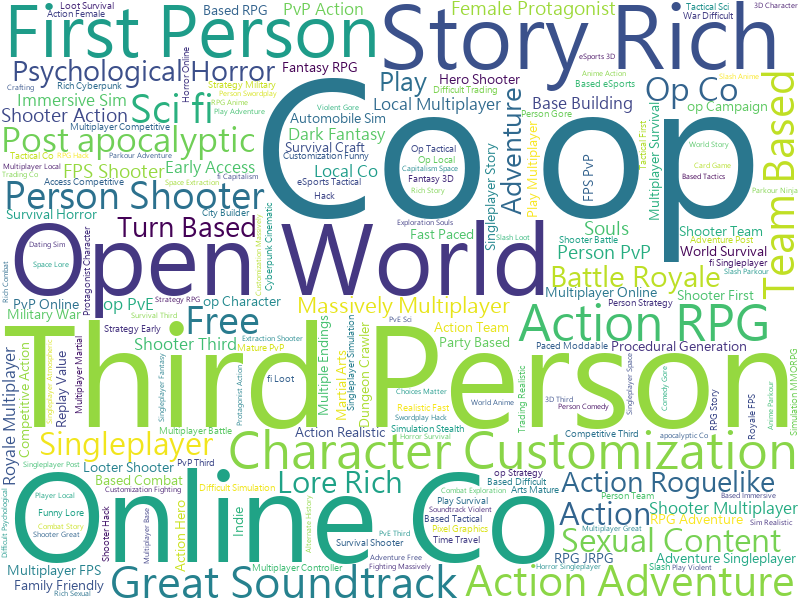
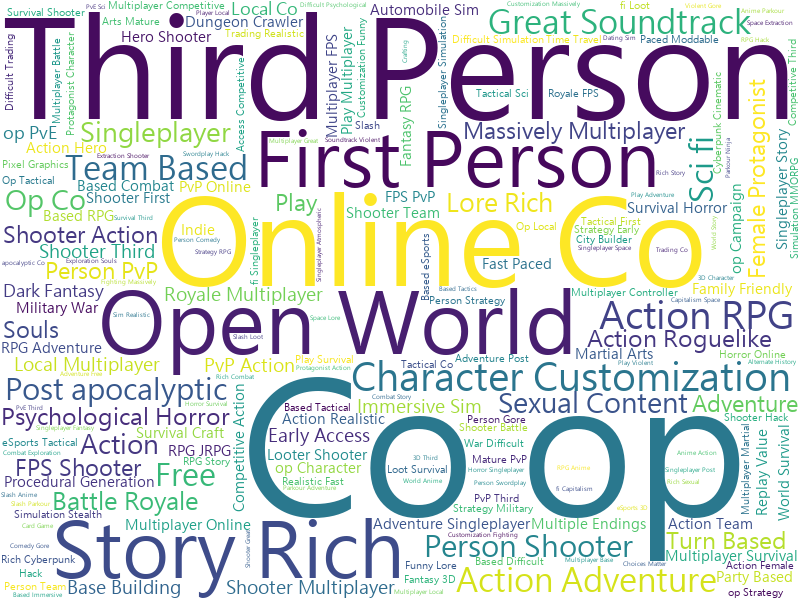
Auto update on 2025/10/16 週四 10:56:01.06

diff --git a/findGameData.py b/findGameData.py
@@ -32,8 +32,7 @@ def topGameToday(dbTable):
     try:
         if len(data) != 0:
             print("有資料")
-        else:
-            
+        else:            
             print("沒資料")  
             
             cursor = mydb.cursor()   
@@ -87,6 +86,8 @@ def topGameToday(dbTable):
                 name = row.find("span", class_="title").text                # 遊戲名稱
                 name = name.replace("'","")                                 # 去掉90`s之類的名稱
                 prices = row.find("div", class_="discount_prices").text     # 遊戲原價
+                if prices is None:
+                    continue
                 sale = 0
  
                 
